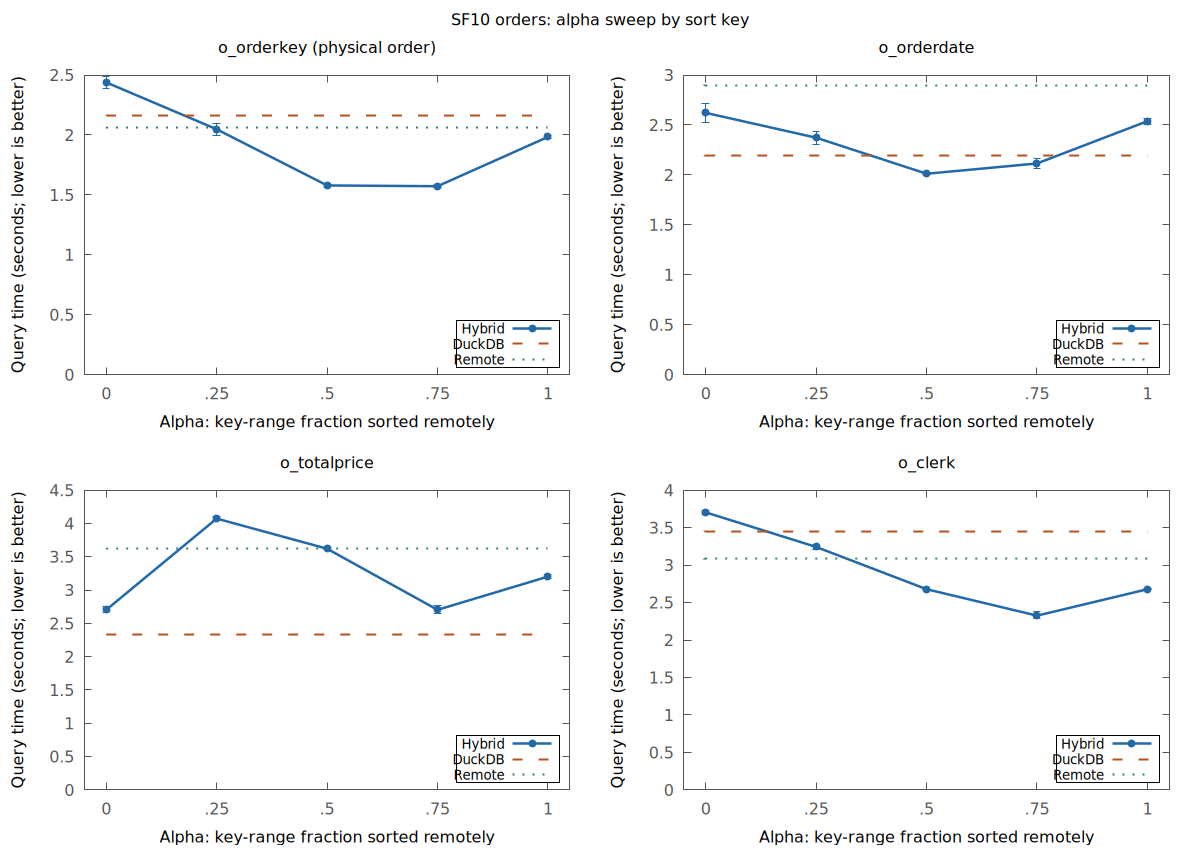
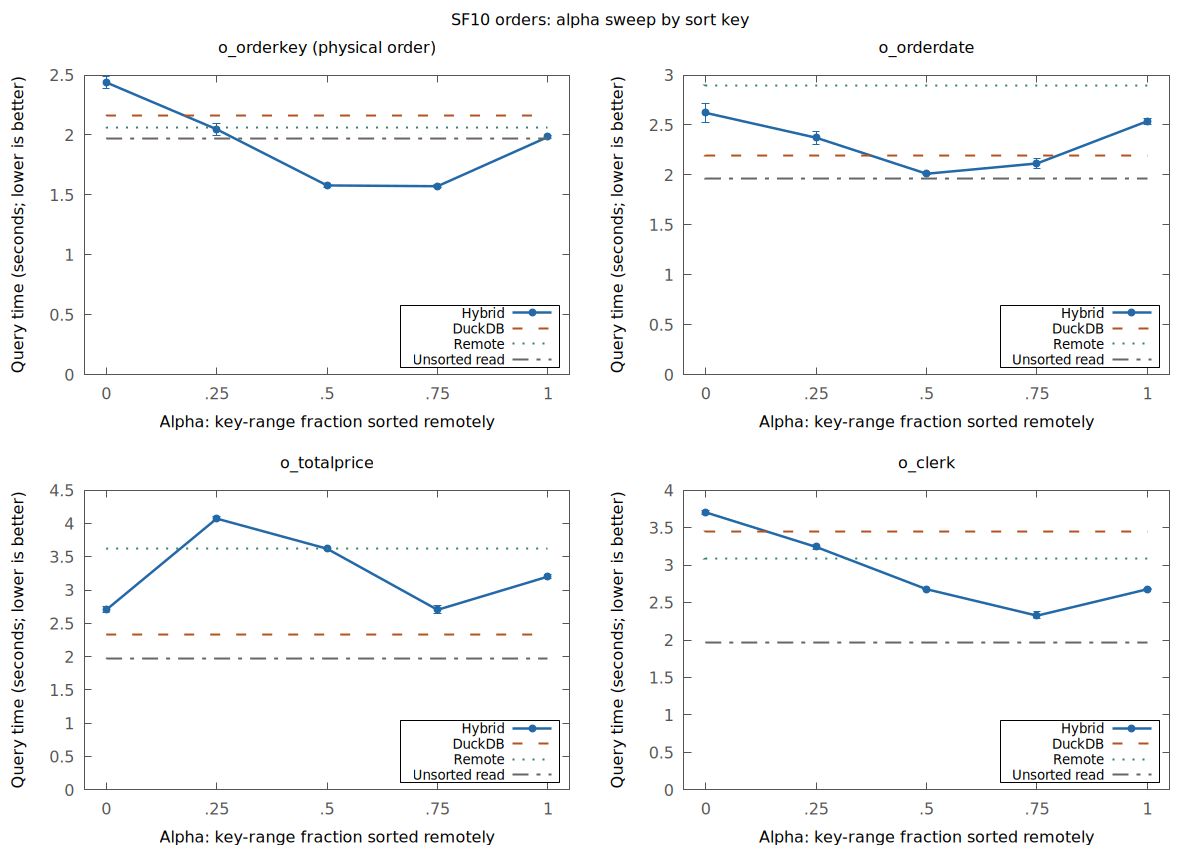
docs: add unsorted scan baseline to SF10 alpha charts

diff --git a/reports/sf10/plot_report.py b/reports/sf10/plot_report.py
@@ -40,6 +40,7 @@ def metric(key, case, name):
 
 
 def write_data():
+    unsorted = statistics.median(times("read-wide", "read"))
     for key in ("orderkey", "orderdate", "totalprice", "clerk"):
         duckdb = statistics.median(times(key, "native"))
         remote = statistics.median(times(key, "read_sorted"))
@@ -49,6 +50,7 @@ def write_data():
             rows.append(
                 f"{alpha}\t{statistics.median(values):.6f}\t{min(values):.6f}"
                 f"\t{max(values):.6f}\t{duckdb:.6f}\t{remote:.6f}"
+                f"\t{unsorted:.6f}"
             )
         (ROOT / f"alpha_{key}.tsv").write_text("\n".join(rows) + "\n")
 

diff --git a/reports/sf10/README.md b/reports/sf10/README.md
@@ -25,8 +25,10 @@ means unsorted `read_adbc` followed by DuckDB `ORDER BY`; `Remote` means
 ![Alpha sweep by sort key](./alpha_sweep.png)
 
 The blue line is the hybrid function; whiskers show the observed run range.
-Dashed lines are the median DuckDB and remote-sort baselines. Each panel has
-its own vertical scale. [Vector version](./alpha_sweep.svg).
+Horizontal lines are the median DuckDB, remote-sort, and unsorted ADBC scan
+baselines. The unsorted scan took 1.969 seconds and measures transfer without
+producing ordered output. Each panel has its own vertical scale.
+[Vector version](./alpha_sweep.svg).
 
 The 0.007-second difference between the two best `o_orderkey` alpha values
 is within the run-to-run spread; treat α=.5 and α=.75 as effectively tied.
